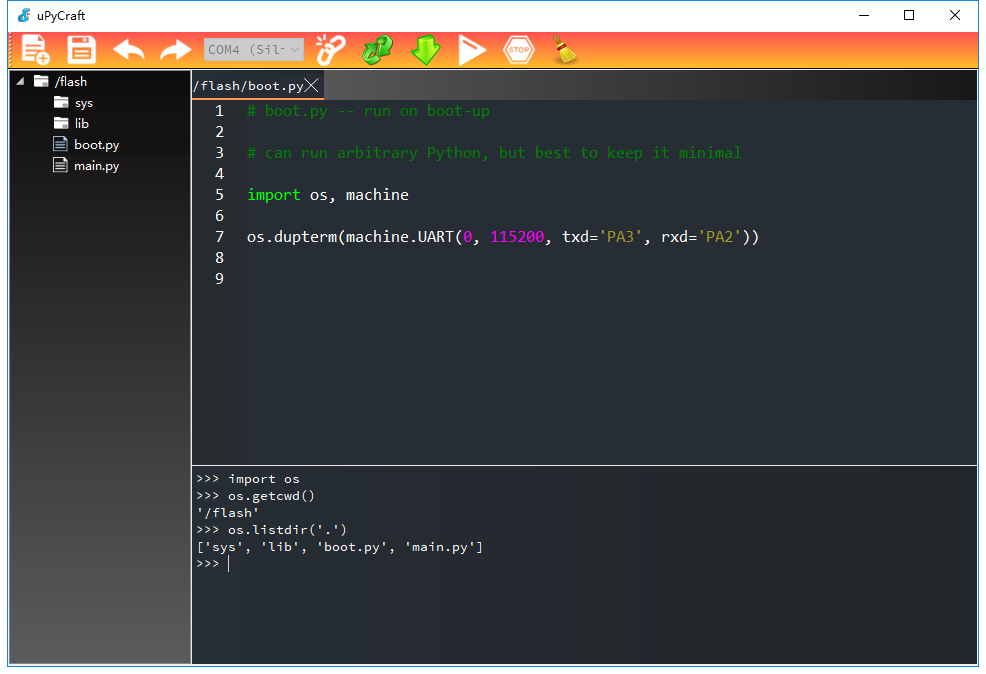
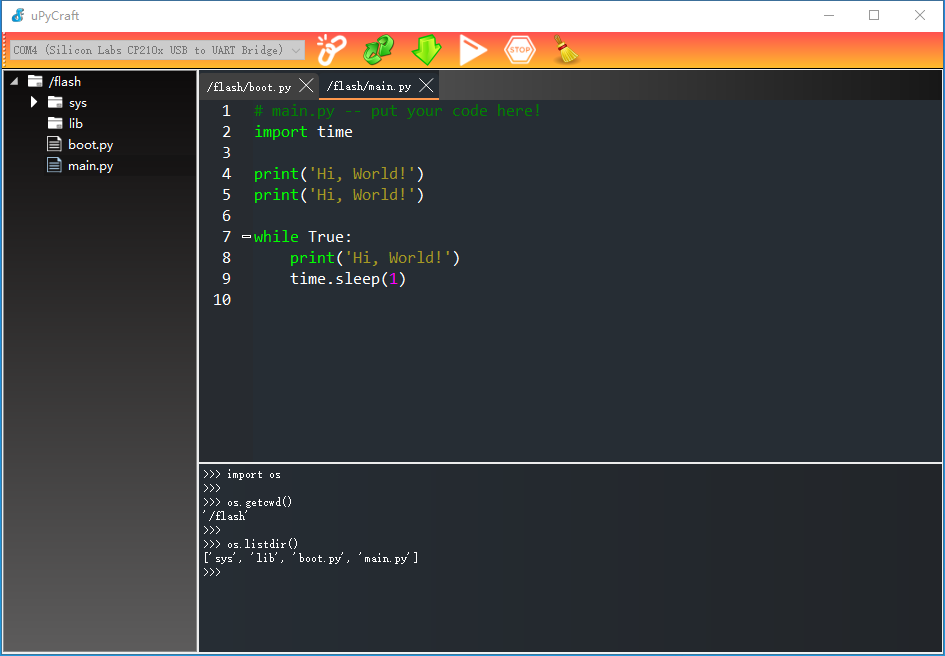
add drag function

Changed region(s): [[0.0, 0.0, 1.0, 1.0]]

diff --git a/threads.py b/threads.py
@@ -104,8 +104,8 @@ class SerThread(QtCore.QThread):
 class CmdThread(QtCore.QThread):
     ''' Operation below will affect UI, UI change can only be done in UI thread '''
     sig_fileListed  = QtCore.pyqtSignal(dict)
-    sig_fileLoaded  = QtCore.pyqtSignal(str, str) # filePath, fileData
-    sig_fileRenamed = QtCore.pyqtSignal(str, str) # oldPath,  newPath
+    sig_fileLoaded  = QtCore.pyqtSignal(str, str)       # filePath, fileData
+    sig_fileRenamed = QtCore.pyqtSignal(str, str, str)  # oldPath,  newPath, fileType
     sig_fileDeleted = QtCore.pyqtSignal(str)
 
     def __init__(self, parent):
@@ -144,7 +144,7 @@ class CmdThread(QtCore.QThread):
                 self.createFile(msg[1])
 
             elif msg[0] == 'renameFile':
-                self.renameFile(msg[1], msg[2])
+                self.renameFile(msg[1], msg[2], msg[3])
 
             elif msg[0] == 'deleteFile':
                 self.deleteFile(msg[1])
@@ -156,7 +156,9 @@ class CmdThread(QtCore.QThread):
 
     def importOS(self):
         self.ui.serQueue.put('Cmd:::import os\r\n')
-        self.waitComplete()
+        err = self.waitComplete()
+        if err:
+            return
     
     def waitComplete(self):
         ''' 每个self.ui.serQueue.put()调用后都要调用self.waitComplete()读走板子打印的'>>>'，
@@ -168,16 +170,16 @@ class CmdThread(QtCore.QThread):
             if self.serRecv:
                 break
         else:
-            return False
+            return 'Timeout'
         
         if self.serRecv.find('Traceback') >= 0:
-            return False
+            return self.serRecv
 
         elif self.serRecv.find('... ') >= 0:
             self.ui.serQueue.put('UI:::\x03')
-            return False
+            return 'IOError'
         
-        return True
+        return None
 
     def listFile(self, path):
         data = self.listFileSub(path)
@@ -195,15 +197,15 @@ class CmdThread(QtCore.QThread):
 
     def listFileSub(self, path):
         self.ui.serQueue.put(f'Cmd:::os.listdir({path!r})\r\n')
-        ok = self.waitComplete()
-        if not ok:
+        err = self.waitComplete()
+        if err:
             return
 
         data = {path: []}
         for file in eval(self.serRecv[self.serRecv.find('[') : self.serRecv.find(']')+1]):
             self.ui.serQueue.put(f'Cmd:::os.stat({xpath.join(path, file)!r})\r\n')
-            ok = self.waitComplete()
-            if not ok:
+            err = self.waitComplete()
+            if err:
                 return
 
             match = re.search(r'\((\d+), ', self.serRecv)
@@ -215,10 +217,10 @@ class CmdThread(QtCore.QThread):
 
         return data
 
-    def loadFile(self, filePath):   # board file path
+    def loadFile(self, filePath):
         self.ui.serQueue.put(f'Cmd:::print(open({filePath!r}, "r").read())\r\n')
-        ok = self.waitComplete()
-        if not ok:
+        err = self.waitComplete()
+        if err:
             return
         
         fileData = '\n'.join(self.serRecv.split('\r\n')[1:-1])  # upy发送出的数据回车都是‘\r\n’
@@ -226,26 +228,21 @@ class CmdThread(QtCore.QThread):
         self.sig_fileLoaded.emit(filePath, fileData)
 
     def downFile(self, filePath, fileData):
-        self.ui.serQueue.put('Cmd:::\x03')
-        ok = self.waitComplete()
-        if not ok:
-            return
-        
         self.ui.serQueue.put(f'Cmd:::tempfile=open({filePath!r}, "w")\r\n')
-        ok = self.waitComplete()
-        if not ok:
+        err = self.waitComplete()
+        if err:
             return
 
         for i in range(0, len(fileData), 128):
             self.ui.terminal.cursor.insertText('.')
             self.ui.serQueue.put(f'Cmd:::tempfile.write({fileData[i:i+128]!r})\r\n')
-            ok = self.waitComplete()
-            if not ok:
+            err = self.waitComplete()
+            if err:
                 return
 
         self.ui.serQueue.put('Cmd:::tempfile.close()\r\n')
-        ok = self.waitComplete()
-        if not ok:
+        err = self.waitComplete()
+        if err:
             return
 
         self.ui.terminal.append(f'{filePath} download successful\n\n>>> ')
@@ -257,35 +254,38 @@ class CmdThread(QtCore.QThread):
 
     def execFile(self, filePath):
         self.ui.serQueue.put(f'exec_:::exec(open({filePath!r}).read(), globals())\r\n')
+        err = self.waitComplete()
+        if err:
+            return
 
     def createDir(self, path):
         self.ui.serQueue.put(f'Cmd:::os.mkdir({path!r})\r\n')
-        ok = self.waitComplete()
-        if not ok:
+        err = self.waitComplete()
+        if err:
             return
 
         self.ui.cmdQueue.put(f'listFile:::{self.ui.dirFlash}')
 
     def createFile(self, path):
         self.ui.serQueue.put(f'Cmd:::open({path!r}, "w")\r\n')
-        ok = self.waitComplete()
-        if not ok:
+        err = self.waitComplete()
+        if err:
             return
 
         self.ui.cmdQueue.put(f'listFile:::{self.ui.dirFlash}')
 
-    def renameFile(self, oldPath, newPath):
+    def renameFile(self, oldPath, newPath, fileType):
         self.ui.serQueue.put(f'Cmd:::os.rename({oldPath!r}, {newPath!r})\r\n')
-        ok = self.waitComplete()
-        if not ok:
+        err = self.waitComplete()
+        if err:
             return
 
-        self.sig_fileRenamed.emit(oldPath, newPath)
+        self.sig_fileRenamed.emit(oldPath, newPath, fileType)
 
     def deleteFile(self, path):
         self.ui.serQueue.put(f'Cmd:::os.stat({path!r})\r\n')
-        ok = self.waitComplete()
-        if not ok:
+        err = self.waitComplete()
+        if err:
             return
 
         match = re.search(r'\((\d+), ', self.serRecv)
@@ -294,8 +294,8 @@ class CmdThread(QtCore.QThread):
         else:                               # rmdir
             self.ui.serQueue.put(f'Cmd:::os.rmdir({path!r})\r\n')
 
-        ok = self.waitComplete()
-        if not ok:
+        err = self.waitComplete()
+        if err:
             return
        
         self.sig_fileDeleted.emit(path)

diff --git a/uPyCraft.py b/uPyCraft.py
@@ -273,12 +273,13 @@ class uPyCraft(QtWidgets.QMainWindow, Ui_uPyCraft):
         self.cmdQueue.put(f'createDir:::{path}')
 
     def on_treeActionRename_triggered(self):
+        self.renameDialog.linName.setText(os.path.basename(self.tree.pressedFilePath))
         self.renameDialog.exec()
 
     def on_renameDialog_btnOK_clicked(self):
         newName = self.renameDialog.linName.text()
-        newPath = os.path.split(self.tree.pressedFilePath)[0] + '/' + newName
-        self.cmdQueue.put(f'renameFile:::{self.tree.pressedFilePath}:::{newPath}')
+        newPath = xpath.join(os.path.dirname(self.tree.pressedFilePath), newName)
+        self.cmdQueue.put(f'renameFile:::{self.tree.pressedFilePath}:::{newPath}:::{self.tree.pressedFileType}')
 
     def on_treeActionDelete_triggered(self):
         res = QtWidgets.QMessageBox.question(self, 'confirm delete?', self.tree.pressedFilePath, QtWidgets.QMessageBox.Ok|QtWidgets.QMessageBox.Cancel, QtWidgets.QMessageBox.Cancel)
@@ -326,29 +327,36 @@ class uPyCraft(QtWidgets.QMainWindow, Ui_uPyCraft):
         if filePath not in self.tabWidget.openedFiles:
             self.tabWidget.newTab(filePath, fileData)
         
-        for i in range(self.tabWidget.count()):
-            if self.tabWidget.tabText(i) == filePath:
-                self.tabWidget.setCurrentIndex(i)
-                break
+        index = self.getFileIndex(filePath)
+        self.tabWidget.setCurrentIndex(index)
+        
+    def on_fileRenamed(self, oldPath, newPath, fileType):
+        print(oldPath, newPath, fileType)
+        if fileType == 'file':
+            if oldPath in self.tabWidget.openedFiles:
+                self.tabWidget.setTabText(self.getFileIndex(oldPath), newPath)
+                self.tabWidget.openedFiles[self.tabWidget.openedFiles.index(oldPath)] = newPath
 
-    def on_fileRenamed(self, oldPath, newPath):
-        if oldPath in self.tabWidget.openedFiles:
-            for i in range(self.tabWidget.count()):
-                if self.tabWidget.tabText(i) == oldPath:
-                    self.tabWidget.setTabText(i, newPath)
-                    break
+        elif fileType == 'dir':
+            for filePath in self.tabWidget.openedFiles:
+                if filePath.startswith(oldPath):
+                    self.tabWidget.setTabText(self.getFileIndex(filePath), xpath.join(newPath, os.path.basename(filePath)))
+                    self.tabWidget.openedFiles[self.tabWidget.openedFiles.index(filePath)] = xpath.join(newPath, os.path.basename(filePath))
 
         self.cmdQueue.put(f'listFile:::{self.dirFlash}')
 
     def on_fileDeleted(self, filePath):
         if filePath in self.tabWidget.openedFiles:
-            for i in range(self.tabWidget.count()):
-                if self.tabWidget.tabText(i) == filePath:
-                    self.tabWidget.removeTab(i)
-                    self.tabWidget.openedFiles.remove(filePath)
-                    break
+            index = self.getFileIndex(filePath)
+            self.tabWidget.removeTab(index)
+            self.tabWidget.openedFiles.remove(filePath)
         
         self.cmdQueue.put(f'listFile:::{self.dirFlash}')
+
+    def getFileIndex(self, filePath):
+        for i in range(self.tabWidget.count()):
+            if self.tabWidget.tabText(i) == filePath:
+                return i
 
     def closeEvent(self,event):
         self.conf.set('serial', 'port', self.cmbSer.currentText())

diff --git a/widgets.py b/widgets.py
@@ -52,19 +52,22 @@ class TreeView(QtWidgets.QTreeView):
         self.popupMenu.exec_(self.mapToGlobal(point))
 
     def on_item_pressed(self, index):
-        self.pressedFileType = index.data(QtCore.Qt.WhatsThisRole)
-        self.pressedFilePath = ''
+        self.pressedFilePath, self.pressedFileType = self.getPathAndType(index)
+
+    def getPathAndType(self, index):
+        fileType = index.data(QtCore.Qt.WhatsThisRole)
+
+        filePath = ''
         while index.data():
-            self.pressedFilePath = index.data() + '/' + self.pressedFilePath
+            filePath = index.data() + '/' + filePath
             index = index.parent()
-        self.pressedFilePath = self.pressedFilePath[:-1]
+        filePath = filePath[:-1]
 
         if self.ui.dirFlash == '/':
-            if self.pressedFilePath == '/flash':
-                self.pressedFilePath = '/'
-            else:
-                self.pressedFilePath = self.pressedFilePath[len('/flash'):]
+            filePath = filePath[len('/flash'):] or '/'  # '/flash' will become ''
 
+        return filePath, fileType
+    
     def dragEnterEvent(self, event):
         if event.mimeData().hasFormat("text/uri-list"):
             self.dragFrom = "External"
@@ -74,12 +77,13 @@ class TreeView(QtWidgets.QTreeView):
         elif event.mimeData().hasFormat("application/x-qabstractitemmodeldatalist"):
             self.dragFrom = "Internal"
 
-            self.dragIndex = self.indexAt(event.pos())
-            if not self.dragIndex.data():
+            index = self.indexAt(event.pos())
+            if not index.data():
                 return
+
+            self.dragPath, self.dragType = self.getPathAndType(index)
             
             event.acceptProposedAction()
-
 
     def dragMoveEvent(self, event): # for drag work
         index = self.indexAt(event.pos())
@@ -97,9 +101,14 @@ class TreeView(QtWidgets.QTreeView):
         if not index.data() or index.data(QtCore.Qt.WhatsThisRole) != 'dir':
             return
 
-        dropDir = index.data()
+        dropDir, _ = self.getPathAndType(index)
 
-        if self.dragFrom == "External":
+        if self.dragFrom == "Internal":
+            newPath = xpath.join(dropDir, os.path.basename(self.dragPath))
+
+            self.ui.cmdQueue.put(f'renameFile:::{self.dragPath}:::{newPath}:::{self.dragType}')
+
+        elif self.dragFrom == "External":
             for url in event.mimeData().urls():
                 filePath = url.toLocalFile()
 
@@ -108,13 +117,6 @@ class TreeView(QtWidgets.QTreeView):
 
                 elif os.path.isdir(filePath):
                     pass
-            
-        elif self.dragFrom=="Internal":
-            if self.dragIndex.data(QtCore.Qt.WhatsThisRole) == 'file':
-                pass
-
-            elif self.dragIndex.data(QtCore.Qt.WhatsThisRole) == 'dir':
-                pass
 
 
 class TabWidget(QtWidgets.QTabWidget):

diff --git a/README.md b/README.md
@@ -1,5 +1,11 @@
 # uPyCraft
-uPyCraft is an IDE designed for micropython. This is my PyQt5 port (Note: This is an alpha version).
+uPyCraft is an IDE designed for micropython. This is my PyQt5 port.
 
 to run this software, you need python 3.6, pyqt5 and pyserial.
 ![](https://github.com/XIVN1987/uPyCraft/blob/master/截图.png)
+
+support file/folder create, delete, rename and drag.
+support file upload, download, edit and run.
+
+operation demo
+![](https://github.com/XIVN1987/uPyCraft/blob/master/动图.gif)
